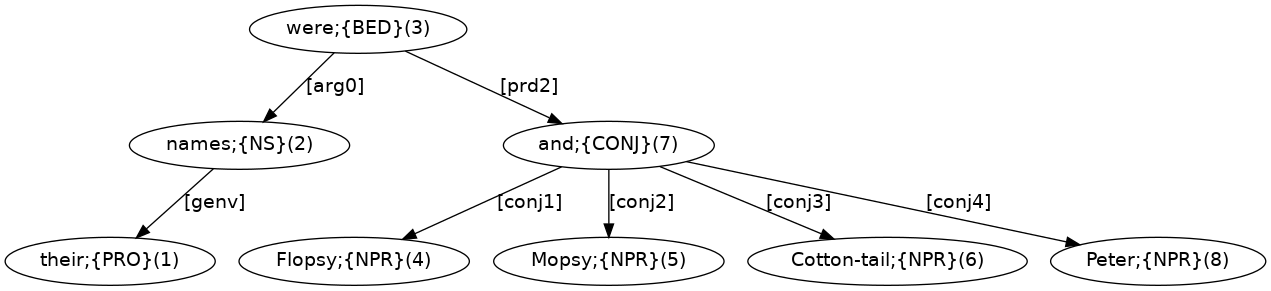
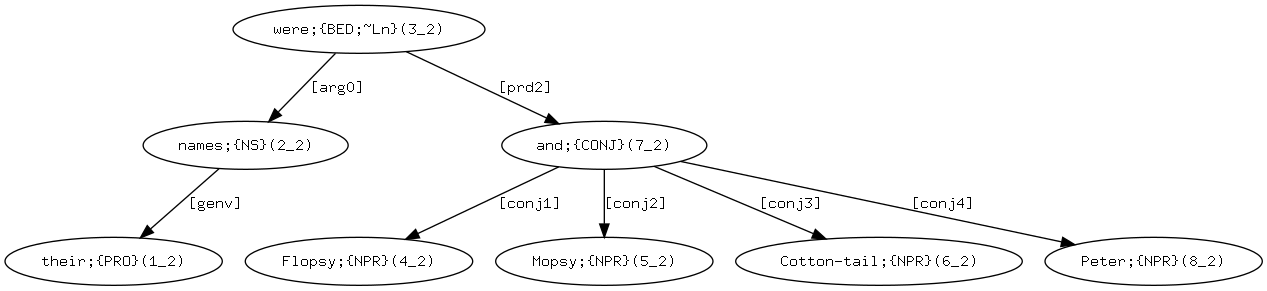
update

diff --git a/puzzle_graphs.html b/puzzle_graphs.html
@@ -42,7 +42,7 @@ body {
 
 <p align="justify">In a puzzle graph, word content for solution sentences is found outside of square brackets (&lsquo;<tt>[</tt>&rsquo;, &lsquo;<tt>]</tt>&rsquo;) and is always accompanied by (i) content between curly braces (&lsquo;<tt>&lcub;</tt>&rsquo;, &lsquo;<tt>&rcub;</tt>&rsquo;) to say the word class of the word, and (ii) numbering inside round brackets (&lsquo;<tt>(</tt>&rsquo;, &lsquo;<tt>)</tt>&rsquo;) to say the word position within the solution sentence(s).</p>
 
-<p align="justify">&nbsp;&nbsp;&nbsp;&nbsp;There is at least one number inside round brackets per word, but there may be a second number separated by an underscore character (&lsquo;<tt>&lowbar;</tt>&rsquo;). The second number (if present) says which solution sentence the word belongs to. The first number says the position of the word within its solution sentence. If there is no second number, then only one solution sentence is expected.</p>
+<p align="justify">&nbsp;&nbsp;&nbsp;&nbsp;Each word is accompanied by round brackets containing two numbers separated by an underscore character (&lsquo;<tt>&lowbar;</tt>&rsquo;). The second number says which solution sentence the word belongs to. The first number says the position of the word within its solution sentence.</p>
 
 <p align="justify">&nbsp;&nbsp;&nbsp;&nbsp;Square bracket content tells us about how words function, that is, what words <i>do</i> in their sentences. These are important clues that help to say where words should go to form solution sentences.</p>
 
@@ -78,7 +78,7 @@ body {
 
 <p align="justify">To form a solution sentence you can start by looking into a puzzle graph for an arrow that includes <tt>[arg0]</tt> in its label. The master node for such an arrow will be the main verb of a clause, possibly with other supporting words, while the dependent node will be the head word corresponding to the subject, that is, the &lsquo;do-er&rsquo; or &lsquo;be-er&rsquo; or &lsquo;have-er&rsquo; of the main verb.</p>
 
-<p align="justify">&nbsp;&nbsp;&nbsp;&nbsp;Consider figure <a href="#fig1">1</a>. This gives the puzzle graph for a single clause. By finding the arrow labelled <tt>[arg0]</tt>, we can identify <tt>were(6)</tt> as the main verb with supporting <tt>there(5)</tt>. We can also identify <tt>Rabbits(9)</tt> as the &lsquo;be-er&rsquo; (subject) of the main verb.</p>
+<p align="justify">&nbsp;&nbsp;&nbsp;&nbsp;Consider figure <a href="#fig1">1</a>. This gives the puzzle graph for a single clause. By finding the arrow labelled <tt>[arg0]</tt>, we can identify <tt>were(6_1)</tt> as the main verb with supporting <tt>there(5_1)</tt>. We can also identify <tt>Rabbits(9_1)</tt> as the &lsquo;be-er&rsquo; (subject) of the main verb.</p>
 
 <p><a name="fig1">Figure 1: Puzzle graph for a single clause</a></p>
 
@@ -90,13 +90,13 @@ body {
   <dt>(<a name="ex1">1</a>)</dt><dd>there were Rabbits</dd>
 </dl>
 
-<p align="justify">With (<a href="#ex1">1</a>), we already have a full sentence of English! However, (<a href="#ex1">1</a>) is not a complete solution sentence for figure <a href="#fig1">1</a>, since there are words that have yet to be used. Two of these words come at the ends of arrows that have <tt>Rabbits(9)</tt> as their master node. These words act to modify <tt>Rabbits(9)</tt>. Specifically, there is a numeral modifier to tell us about the number of rabbits (<tt>four(7)</tt>), and there is an attributive modifier to tell us about the size of the rabbits (<tt>little(8)</tt>). In English, a numeral modifier should precede an attributive adjective modifier to give (<a href="#ex2">2</a>).</p>
+<p align="justify">With (<a href="#ex1">1</a>), we already have a full sentence of English! However, (<a href="#ex1">1</a>) is not a complete solution sentence for figure <a href="#fig1">1</a>, since there are words that have yet to be used. Two of these words come at the ends of arrows that have <tt>Rabbits(9_1)</tt> as their master node. These words act to modify <tt>Rabbits(9_1)</tt>. Specifically, there is a numeral modifier to tell us about the number of rabbits (<tt>four(7_1)</tt>), and there is an attributive modifier to tell us about the size of the rabbits (<tt>little(8_1)</tt>). In English, a numeral modifier should preceed an attributive adjective modifier to give (<a href="#ex2">2</a>).</p>
 
 <dl>
   <dt>(<a name="ex2">2</a>)</dt><dd>there were four little Rabbits</dd>
 </dl>
 
-<p align="justify">&nbsp;&nbsp;&nbsp;&nbsp;Figure <a href="#fig1">1</a> also contains content for a temporal modifier with an arrow labelled <tt>[modifier][tmp]</tt> that has the main verb as its master node and that points to the adverb <tt>Once(1)</tt>. This adverb has itself a modifier labelled with the preposition word <tt>upon(2)</tt> and with <tt>time(4)</tt> as the dependent word. After connecting these words, we end up with the solution sentence of (<a href="#ex3">3</a>).</p>
+<p align="justify">&nbsp;&nbsp;&nbsp;&nbsp;Figure <a href="#fig1">1</a> also contains content for a temporal modifier with an arrow labelled <tt>[modifier][tmp]</tt> that has the main verb as its master node and that points to the adverb <tt>Once(1_1)</tt>. This adverb has itself a modifier labelled with the preposition word <tt>upon(2_1)</tt> and with <tt>time(4_1)</tt> as the dependent word. After connecting these words, we end up with the solution sentence of (<a href="#ex3">3</a>).</p>
 
 <dl>
   <dt>(<a name="ex3">3</a>)</dt><dd>Once upon a time there were four little Rabbits</dd>
@@ -105,7 +105,7 @@ body {
 <p align="justify">&nbsp;&nbsp;&nbsp;&nbsp;Note that (<a href="#ex3">3</a>) includes <i>a</i> as the third word, and yet this word is not part of figure <a href="#fig1">1</a>. This is an example of a &lsquo;special&rsquo; word that, as already noted in section <a href="#sec2">2</a>, we might sometimes need to add in addition to the words from the puzzle graph. We can gain confirmation that this extra word insertion is needed from observing that the resulting solution sentence now has words with positions that follow the word numbering of figure <a href="#fig1">1</a>, as (<a href="#ex4">4</a>) makes explicit.</p>
 
 <dl>
-  <dt>(<a name="ex4">4</a>)</dt><dd><tt>Once(1)</tt> <tt>upon(2)</tt> <u>a</u> <tt>time(4)</tt> <tt>there(5)</tt> <tt>were(6)</tt> <tt>four(7)</tt> <tt>little(8)</tt> <tt>Rabbits(9)</tt></dd>
+  <dt>(<a name="ex4">4</a>)</dt><dd><tt>Once(1_1)</tt> <tt>upon(2_1)</tt> <u>a</u> <tt>time(4_1)</tt> <tt>there(5_1)</tt> <tt>were(6_1)</tt> <tt>four(7_1)</tt> <tt>little(8_1)</tt> <tt>Rabbits(9_1)</tt></dd>
 </dl>
 
 <p align="justify">&nbsp;&nbsp;&nbsp;&nbsp;As another example, consider figure <a href="#fig2">2</a>, which also has content for a single clause sentence.</p>
@@ -114,13 +114,13 @@ body {
 
 <img src="puzzles2.png" alt="Puzzle graph for another single clause" height="230">
 
-<p align="justify">Searching for an <tt>[arg0]</tt> labelled arrow, we find that <i>were</i> is once again the main verb of the clause, now as <tt>were(3)</tt> and without <i>there</i>. With no <i>there</i>, a clause with <i>were</i> as the main verb will typically need the &lsquo;be-er&rsquo; (subject) to occur before <i>were</i>. The &lsquo;be-er&rsquo; is <tt>names(2)</tt>, which itself has an arrow labelled <tt>[genv]</tt> (genitive), which takes us to the genitive pronoun <tt>their(1)</tt>. By connecting these words, we arrive at (<a href="#ex5">5</a>).</p>
+<p align="justify">Searching for an <tt>[arg0]</tt> labelled arrow, we find that <i>were</i> is once again the main verb of the clause, now as <tt>were(3_2)</tt> and without <i>there</i>. With no <i>there</i>, a clause with <i>were</i> as the main verb will typically need the &lsquo;be-er&rsquo; (subject) to occur before <i>were</i>. The &lsquo;be-er&rsquo; is <tt>names(2_2)</tt>, which itself has an arrow labelled <tt>[genv]</tt> (genitive), which takes us to the genitive pronoun <tt>their(1_2)</tt>. By connecting these words, we arrive at (<a href="#ex5">5</a>).</p>
 
 <dl>
   <dt>(<a name="ex5">5</a>)</dt><dd>their names were</dd>
 </dl>
 
-<p align="justify">Unlike (<a href="#ex1">1</a>) and (<a href="#ex2">2</a>), (<a href="#ex5">5</a>) is not yet a full sentence of English. We still need to provide content for &lsquo;<i><b>what</b> their names were</i>&rsquo;. The content is found by following the arrow labelled <tt>[prd2]</tt> (subject predicative), which takes us to <tt>and(7)</tt>, which in turn takes us to four conjuncts. Each conjunct is linked with a <tt>[conjN]</tt> labelled arrow, where <tt>N</tt> is a conjunct's place in an ordering of all the conjuncts. Turning all of this into content for a sentence of English gets us to the solution sentence (<a href="#ex6">6</a>).</p>
+<p align="justify">Unlike (<a href="#ex1">1</a>) and (<a href="#ex2">2</a>), (<a href="#ex5">5</a>) is not yet a full sentence of English. We still need to provide content for &lsquo;<i><b>what</b> their names were</i>&rsquo;. The content is found by following the arrow labelled <tt>[prd2]</tt> (subject predicative), which takes us to <tt>and(7_2)</tt>, which in turn takes us to four conjuncts. Each conjunct is linked with a <tt>[conjN]</tt> labelled arrow, where <tt>N</tt> is a conjunct's place in an ordering of all the conjuncts. Turning all of this into content for a sentence of English gets us to the solution sentence (<a href="#ex6">6</a>).</p>
 
 <dl>
   <dt>(<a name="ex6">6</a>)</dt><dd>their names were Flopsy, Mopsy, Cotton-tail, and Peter</dd>
@@ -132,9 +132,9 @@ body {
 
 <img src="puzzles3.png" alt="Puzzle graph combining figures 1 and 2" height="380">
 
-<p align="justify">This third puzzle graph brings together content from the two previous puzzle graphs with connections of material at two different graph nodes. First, there is connection from the very top node of the graph with the word <tt>and(10)</tt>. Nodes corresponding to the main verb nodes of the two earlier graphs form the dependent nodes of arrows labelled <tt>[conjN]</tt>, much as we saw with the connections that led to <i>Flopsy, Mopsy, Cotton-tail, <b><i>and</i></b> Peter</i>. We can therefore expect to reach a solution sentence that is essentially the content of (<a href="#ex3">3</a>) connected by <i>and</i> to the content of (<a href="#ex6">6</a>).</p>
+<p align="justify">This third puzzle graph brings together content from the two previous puzzle graphs with connections of material at two different graph nodes. First, there is connection from the very top node of the graph with the word <tt>and(10_3)</tt>. Nodes corresponding to the main verb nodes of the two earlier graphs form the dependent nodes of arrows labelled <tt>[conjN]</tt>, much as we saw with the connections that led to <i>Flopsy, Mopsy, Cotton-tail, <b><i>and</i></b> Peter</i>. We can therefore expect to reach a solution sentence that is essentially the content of (<a href="#ex3">3</a>) connected by <i>and</i> to the content of (<a href="#ex6">6</a>).</p>
 
-<p align="justify">&nbsp;&nbsp;&nbsp;&nbsp;But there is one further point of connection that we also need to make sense of: The arrow <tt>[genv]</tt> of figure <a href="#fig3">3</a> does not have a node with content <i>their</i> as its dependent like in figure <a href="#fig2">2</a>, but rather takes as its dependent <tt>Rabbits(9)</tt>, which corresponds to the <tt>Rabbits(9)</tt> of figure <a href="#fig1">1</a>. We can interpret this <tt>[genv]</tt> arrow connection as having a &lsquo;special&rsquo; instance of <i>their</i> as the arrow's dependent. That is, the word <i>their</i> is absent from the puzzle graph because it's presence is captured as a direct arrow connection (referential link) to <tt>Rabbits(9)</tt>, which occurs in the puzzle graph for independent reasons. We are therefore justified to take &lsquo;(<a href="#ex3">3</a>) <i>and</i> (<a href="#ex6">6</a>)&rsquo; &mdash; namely (<a href="#ex7">7</a>) &mdash; to be the overall solution sentence for the puzzle graph of figure <a href="#fig3">3</a>.</p>
+<p align="justify">&nbsp;&nbsp;&nbsp;&nbsp;But there is one further point of connection that we also need to make sense of: The arrow <tt>[genv]</tt> of figure <a href="#fig3">3</a> does not have a node with content <i>their</i> as its dependent like in figure <a href="#fig2">2</a>, but rather takes as its dependent <tt>Rabbits(9_3)</tt>, which corresponds to the <tt>Rabbits(9_3)</tt> of figure <a href="#fig1">1</a>. We can interpret this <tt>[genv]</tt> arrow connection as having a &lsquo;special&rsquo; instance of <i>their</i> as the arrow's dependent. That is, the word <i>their</i> is absent from the puzzle graph because it's presence is captured as a direct arrow connection (referential link) to <tt>Rabbits(9_3)</tt>, which occurs in the puzzle graph for independent reasons. We are therefore justified to take &lsquo;(<a href="#ex3">3</a>) <i>and</i> (<a href="#ex6">6</a>)&rsquo; &mdash; namely (<a href="#ex7">7</a>) &mdash; to be the overall solution sentence for the puzzle graph of figure <a href="#fig3">3</a>.</p>
 
 <dl>
   <dt>(<a name="ex7">7</a>)</dt><dd>Once upon a time there were four little Rabbits, and their names were Flopsy, Mopsy, Cotton-tail, and Peter.</dd>
@@ -142,16 +142,16 @@ body {
 
 <h3><a name="sec3.2">3.2</a>&nbsp;&nbsp;&nbsp;An example with &lsquo;#&rsquo;</h3>
 
-<p align="justify">Figure <a href="#fig4">4</a> has a similar structure to figure <a href="#fig3">3</a>, in the sense that there are two verbs connected by <tt>[conj1]</tt> and <tt>[conj2]</tt> arrows from <tt>and(11)</tt> occuring topmost in the graph. However, while the verb of the first conjunct is overtly realised with <tt>lost(2)</tt>, the content for the verb of the second conjunct is shown as <tt>#(12)</tt> to indicate the licensed absence of a verb (a lost <i>lost</i>!) from the solution sentence. One further instance of &lsquo;#&rsquo; occurs in the graph (namely, <tt>#(4)</tt>) to indicate a nominal head absence that has <tt>[num]</tt> (numeral modifier) and &lsquo;<tt>of</tt>&rsquo; (role preposition) links.</p>
+<p align="justify">Figure <a href="#fig4">4</a> has a similar structure to figure <a href="#fig3">3</a>, in the sense that there are two verbs connected by <tt>[conj1]</tt> and <tt>[conj2]</tt> arrows from <tt>and(10_4)</tt> occuring topmost in the graph. However, while the verb of the first conjunct is overtly realised with <tt>lost(2_4)</tt>, the content for the verb of the second conjunct is shown as <tt>#(2_4)</tt> to indicate the licensed absence of a verb (a lost <i>lost</i>!) from the solution sentence. One further instance of &lsquo;#&rsquo; occurs in the graph (namely, <tt>#(1_4)</tt>) to indicate a nominal head absence that has <tt>[num]</tt> (numeral modifier) and &lsquo;<tt>of</tt>&rsquo; (role preposition) links.</p>
 
 <p><a name="fig4">Figure 4: Puzzle graph with &lsquo;#&rsquo;</a></p>
 
 <img src="puzzles4.png" alt="Puzzle graph content with elision" height="380">
 
-<p align="justify">Following all the links of figure <a href="#fig4">4</a> and including the &lsquo;#&rsquo; instances, we can arrive at solution sentence (<a href="#ex8">8</a>).</p>
+<p align="justify">Following all the links of figure <a href="#fig4">4</a>, we can arrive at solution sentence (<a href="#ex8">8</a>).</p>
 
 <dl>
-  <dt>(<a name="ex8">8</a>)</dt><dd>He lost one # of his shoes among the cabbages, and # the other shoe amongst the potatoes.</dd>
+  <dt>(<a name="ex8">8</a>)</dt><dd>He lost one of his shoes among the cabbages, and the other shoe amongst the potatoes.</dd>
 </dl>
 
 <h3><a name="sec3.3">3.3</a>&nbsp;&nbsp;&nbsp;A complex puzzle</h3>
@@ -164,7 +164,7 @@ body {
 
 <img src="puzzles5.png" alt="Puzzle graph for a single clause" height="220">
 
-<p align="justify">By finding <tt>[arg0]</tt>, we can identify <tt>was(3)</tt> as the main verb, and <tt>Mr.(1)_McGregor(2)</tt> as the &lsquo;be-er&rsquo; (subject). One other arrow extends from <tt>was(3)</tt> to <tt>and(7)</tt> and this is labelled with the preposition word <tt>on(4)</tt> and functional information <tt>[loc]</tt> (location). In turn, <tt>and(7)</tt> takes us to two conjuncts via the labelled connections <tt>[conj1]</tt> leading to <tt>hands(6)</tt> and <tt>[conj2]</tt> leading to <tt>knees(8)</tt>. One more connection, labelled <tt>[genv]</tt> (genitive&sol;possessive), originates from <tt>and(7)</tt> and leads to <tt>Mr.(1)_McGregor(2)</tt> to capture the information that <tt>hands(6)</tt> and <tt>knees(8)</tt> are those of <i>Mr.&nbsp;McGregor</i>. By following these connections and including <i>his</i> to capture the genitive&sol;possessive connection, we can reach (<a href="#ex9">9</a>) as the solution sentence.</p>
+<p align="justify">By finding <tt>[arg0]</tt>, we can identify <tt>was(3_5)</tt> as the main verb, and <tt>Mr.(1_5)_McGregor(2_5)</tt> as the &lsquo;be-er&rsquo; (subject). One other arrow extends from <tt>was(3_5)</tt> to <tt>and(7_5)</tt> and this is labelled with the preposition word <tt>on(4_5)</tt> and functional information <tt>[loc]</tt> (location). In turn, <tt>and(7_5)</tt> takes us to two conjuncts via the labelled connections <tt>[conj1]</tt> leading to <tt>hands(6_5)</tt> and <tt>[conj2]</tt> leading to <tt>knees(8_5)</tt>. One more connection, labelled <tt>[genv]</tt> (genitive&sol;possessive), originates from <tt>and(7_5)</tt> and leads to <tt>Mr.(1_5)_McGregor(2_5)</tt> to capture the information that <tt>hands(6_5)</tt> and <tt>knees(8_5)</tt> are those of <i>Mr.&nbsp;McGregor</i>. By following these connections and including <i>his</i> to capture the genitive&sol;possessive connection, we can reach (<a href="#ex9">9</a>) as the solution sentence.</p>
 
 <dl>
   <dt>(<a name="ex9">9</a>)</dt><dd>Mr.&nbsp;McGregor was on his hands and knees</dd>
@@ -176,7 +176,7 @@ body {
 
 <img src="puzzles6.png" alt="Puzzle graph for a clause with a participle" height="290">
 
-<p align="justify">By finding <tt>[arg0]</tt>, we can identify the phrasal verb <tt>planting(4)_out(5)</tt> as the main verb, and <tt>Mr.(1)_McGregor(2)</tt> as the &lsquo;do-er&rsquo; (subject). The <tt>[seq]</tt> (verb sequence) labelled arrow connecting <tt>was(3)</tt> to <tt>planting(4)_out(5)</tt> gives the verb sequence <i>was planting out</i>. A further arrow labelled <tt>[arg1]</tt> (object) extends from <tt>planting(4)_out(5)</tt> to <tt>cabbages(7)</tt> as the content of &lsquo;<b><i>what</i></b> <i>Mr.&nbsp;McGregor was planting out</i>&rsquo;. In turn, <tt>cabbages(7)</tt> leads via an <tt>[attribute]</tt> labelled arrow to <tt>young(6)</tt>. By following all these connections of words from the graph, we reach the solution sentence (<a href="#ex10">10</a>).</p>
+<p align="justify">By finding <tt>[arg0]</tt>, we can identify the verb <tt>planting(4_6)</tt> (with its directional modifier <tt>out(5_6)</tt>) as the main verb, and <tt>Mr.(1_6)_McGregor(2_6)</tt> as the &lsquo;do-er&rsquo; (subject). The <tt>[cat]</tt> (verb catenative) labelled arrow from <tt>was(3_6)</tt> to <tt>planting(4_6)</tt> gives the verb sequence <i>was planting out</i>. A further arrow labelled <tt>[arg1]</tt> (object) extends from <tt>planting(4_6)</tt> to <tt>cabbages(7_6)</tt> as the content of &lsquo;<b><i>what</i></b> <i>Mr.&nbsp;McGregor was planting out</i>&rsquo;. In turn, <tt>cabbages(7_6)</tt> leads via an <tt>[attribute]</tt> labelled arrow to <tt>young(6_6)</tt>. By following all these connections of words from the graph, we reach the solution sentence (<a href="#ex10">10</a>).</p>
 
 <dl>
   <dt>(<a name="ex10">10</a>)</dt><dd>Mr.&nbsp;McGregor was planting out young cabbages</dd>
@@ -188,7 +188,7 @@ body {
 
 <img src="puzzles7.png" alt="Puzzle graph combining figures 5 and 6" height="310">
 
-<p align="justify">Figure <a href="#fig7">7</a> results from combining figures <a href="#fig5">5</a> and <a href="#fig6">6</a>, with the exception that the <tt>[seq]</tt> (sequence verb) labelled connection of figure <a href="#fig6">6</a> is replaced by a <tt>[cnt]</tt> (continuative) labelled connection. As a consequence of this change, <i>planting out</i> can no longer be the main verb of the main clause of a solution sentence, but instead will need to form the main verb of a subordinate participle clause that adds to the information about the &lsquo;be-er&rsquo; (subject) of the main clause. A solution sentence that meets this criteria is (<a href="#ex11">11</a>).</p>
+<p align="justify">Figure <a href="#fig7">7</a> results from combining figures <a href="#fig5">5</a> and <a href="#fig6">6</a>, with the exception that the <tt>[cat]</tt> (catenative verb) labelled connection of figure <a href="#fig6">6</a> is replaced by a <tt>[scon][cnt](#1_7)</tt> (continuative subordinate conjunction) labelled connection. As a consequence of this change, <i>planting</i> can no longer be the main verb of the main clause of a solution sentence, but instead will need to form the main verb of a subordinate participle clause that adds to the information about the &lsquo;be-er&rsquo; (subject) of the main clause. A solution sentence that meets this criteria is (<a href="#ex11">11</a>).</p>
 
 <dl>
   <dt>(<a name="ex11">11</a>)</dt><dd>Mr.&nbsp;McGregor was on his hands and knees planting out young cabbages</dd>
@@ -200,7 +200,7 @@ body {
 
 <img src="puzzles8.png" alt="Puzzle graph for a single clause" height="140">
 
-<p align="justify">Looking at <tt>jumped(2)</tt>, this is linked to <tt>he(1)</tt> with an <tt>[arg0]</tt> arrow, and to <tt>up(3)</tt> with a <tt>[modifier][dir]</tt> (directional modifier) arrow. Therefore, we can identify <i>jumped</i> as the main verb, <i>he</i> as the &lsquo;do-er&rsquo; (subject), and <i>up</i> as an adverbial modifier, to derive the simple sentence of (<a href="#ex12">12</a>).</p>
+<p align="justify">Looking at <tt>jumped(2_8)</tt>, this is linked to <tt>he(1_8)</tt> with an <tt>[arg0]</tt> arrow, and to <tt>up(3_8)</tt> with a <tt>[modifier][dir]</tt> (directional modifier) arrow. Therefore, we can identify <i>jumped</i> as the main verb, <i>he</i> as the &lsquo;do-er&rsquo; (subject), and <i>up</i> as an adverbial modifier, to derive the simple sentence of (<a href="#ex12">12</a>).</p>
 
 <dl>
   <dt>(<a name="ex12">12</a>)</dt><dd>he jumped up</dd>
@@ -212,7 +212,7 @@ body {
 
 <img src="puzzles9.png" alt="Puzzle graph for another single clause" height="140">
 
-<p align="justify">Looking at <tt>ran(2)</tt>, this is linked to <tt>he(1)</tt> with an <tt>[arg0]</tt> arrow. Also, <tt>ran(2)</tt> is linked to <tt>Peter(4)</tt> with an arrow that contains the preposition word <tt>after(3)</tt> and the function information <tt>[dir]</tt> (direction). With these words and connections, we can derive the solution sentence (<a href="#ex13">13</a>).</p>
+<p align="justify">Looking at <tt>ran(2_9)</tt>, this is linked to <tt>he(1_9)</tt> with an <tt>[arg0]</tt> arrow. Also, <tt>ran(2_9)</tt> is linked to <tt>Peter(4_9)</tt> with an arrow that contains the preposition word <tt>after(3_9)</tt> and the function information <tt>[dir]</tt> (direction). With these words and connections, we can derive the solution sentence (<a href="#ex13">13</a>).</p>
 
 <dl>
   <dt>(<a name="ex13">13</a>)</dt><dd>he ran after Peter</dd>
@@ -224,7 +224,7 @@ body {
 
 <img src="puzzles10.png" alt="Puzzle graph combining figures 8 and 9" height="220">
 
-<p align="justify">This combines figures <a href="#fig8">8</a> and <a href="#fig9">9</a>, with <tt>and(4)</tt> to connect <tt>jumped(2)</tt> and <tt>ran(5)</tt>. Note how the single <tt>he(1)</tt> connects as the &lsquo;do-er&rsquo; (subject) to both verbs. A solution sentence is (<a href="#ex14">14</a>).</p>
+<p align="justify">This combines figures <a href="#fig8">8</a> and <a href="#fig9">9</a>, with <tt>and(4_10)</tt> to connect <tt>jumped(2_10)</tt> and <tt>ran(5_10)</tt>. Note how the single <tt>he(1_10)</tt> connects as the &lsquo;do-er&rsquo; (subject) to both verbs. A solution sentence is (<a href="#ex14">14</a>).</p>
 
 <dl>
   <dt>(<a name="ex14">14</a>)</dt><dd>he jumped up and ran after Peter</dd>
@@ -236,7 +236,7 @@ body {
 
 <img src="puzzles11.png" alt="Puzzle graph for a clause with a participle" height="220">
 
-<p align="justify">We can see <tt>waving(3)</tt> is connected to <tt>he(1)</tt> by an <tt>[arg0]</tt> &lsquo;do-er&rsquo; (subject) arrow, and to <tt>rake(5)</tt> with an <tt>[arg1]</tt> &lsquo;done to&rsquo; (object) arrow. Also an arrow labelled <tt>[seq]</tt> (verb sequence; also seen above with figure <a href="#fig6">6</a>) connects <tt>was(2)</tt> to <tt>waving(3)</tt>. A solution sentence is (<a href="#ex15">15</a>).</p>
+<p align="justify">We can see <tt>waving(3_11)</tt> is connected to <tt>he(1_11)</tt> by an <tt>[arg0]</tt> &lsquo;do-er&rsquo; (subject) arrow, and to <tt>rake(5_11)</tt> with an <tt>[arg1]</tt> &lsquo;done to&rsquo; (object) arrow. Also an arrow labelled <tt>[cat]</tt> (verb catenative; also seen above with figure <a href="#fig6">6</a>) connects <tt>was(2_11)</tt> to <tt>waving(3_11)</tt>. A solution sentence is (<a href="#ex15">15</a>).</p>
 
 <dl>
   <dt>(<a name="ex15">15</a>)</dt><dd>he was waving a rake</dd>
@@ -248,7 +248,7 @@ body {
 
 <img src="puzzles12.png" alt="Puzzle graph for an imperative clause" height="140">
 
-<p align="justify">The <tt>[clausetype]</tt> arrow that extends from <tt>Stop(1)</tt> tells us that <i>Stop</i> is the verb of the clause. This connects to <tt>[imp]</tt> to tell us that the clause is an imperative. Typically, an imperative is an order or instruction for an unmentioned &lsquo;do-er&rsquo; to do something, but also the &lsquo;do-er&rsquo; can be addressed with a <tt>[voc]</tt> (vocative) connection. A vocative &mdash; figure <a href="#fig12">12</a> has <tt>thief(2)</tt> &mdash; can occur either at the front or end of an imperative, making (<a href="#ex16">16</a>) a possible solution sentence.</p>
+<p align="justify">The <tt>[clausetype]</tt> arrow that extends from <tt>Stop(1_12)</tt> tells us that <i>Stop</i> is the verb of the clause. This connects to <tt>[imp]</tt> to tell us that the clause is an imperative. Typically, an imperative is an order or instruction for an unmentioned &lsquo;do-er&rsquo; to do something, but also the &lsquo;do-er&rsquo; can be addressed with a <tt>[voc]</tt> (vocative) connection. A vocative &mdash; figure <a href="#fig12">12</a> has <tt>thief(2_12)</tt> &mdash; can occur either at the front or end of an imperative, making (<a href="#ex16">16</a>) a possible solution sentence.</p>
 
 <dl>
   <dt>(<a name="ex16">16</a>)</dt><dd>Stop thief!</dd>
@@ -260,7 +260,7 @@ body {
 
 <img src="puzzles13.png" alt="Puzzle graph for a clause with an embedding with the content of figure 12" height="320">
 
-<p align="justify">This is the puzzle graph for a clause with an embedding with the content of figure <a href="#fig12">12</a>. This embedding is connected by an <tt>[arg1]</tt> (object) arrow to the phrasal verb <tt>calling(3)_out(4)</tt>, and so provides the content of &lsquo;<b><i>what</i></b> <i>was called out</i>&rsquo;. Also, <tt>calling(3)_out(4)</tt> links to <tt>he(1)</tt> with an <tt>[arg0]</tt> &lsquo;do-er&rsquo; (subject) arrow, so this will need to be the main verb of the overall sentence. Also an arrow labelled <tt>[seq]</tt> connects <tt>was(2)</tt> to <tt>calling(3)_out(4)</tt>. A solution sentence is (<a href="#ex17">17</a>).</p>
+<p align="justify">This is the puzzle graph for a clause with an embedding with the content of figure <a href="#fig12">12</a>. This embedding is connected by an <tt>[arg1]</tt> (object) arrow to the verb <tt>calling(3_13)</tt> (with directional modifier <tt>out(4_13)</tt>), and so provides the content of &lsquo;<b><i>what</i></b> <i>was called out</i>&rsquo;. Also, <tt>calling(3_13)</tt> links to <tt>he(1_13)</tt> with an <tt>[arg0]</tt> &lsquo;do-er&rsquo; (subject) arrow, so this will need to be the main verb of the overall sentence. Also an arrow labelled <tt>[cat]</tt> connects <tt>was(2_13)</tt> to <tt>calling(3_13)</tt>. A solution sentence is (<a href="#ex17">17</a>).</p>
 
 <dl>
   <dt>(<a name="ex17">17</a>)</dt><dd>he was calling out, &lsquo;Stop thief!&rsquo;</dd>
@@ -272,7 +272,7 @@ body {
 
 <img src="puzzles14.png" alt="Puzzle graph combining figures 11 and 13" height="400">
 
-<p align="justify">Figure <a href="#fig14">14</a> results from combining figure <a href="#fig11">11</a> and <a href="#fig13">13</a>. Here, <tt>and(6)</tt> has conjuncts <tt>waving(3)</tt> and <tt>calling(7) out(8)</tt>, both of which are participle verbs. In turn, an arrow labelled <tt>[seq]</tt> connects <tt>was(2)</tt> to <tt>and(6)</tt> and it is this connection that creates the verb sequencing that supports the participle forms of the two conjoined verbs. A solution sentence is (<a href="#ex18">18</a>).</p>
+<p align="justify">Figure <a href="#fig14">14</a> results from combining figure <a href="#fig11">11</a> and <a href="#fig13">13</a>. Here, <tt>and(6_14)</tt> has conjuncts <tt>waving(3_14)</tt> and <tt>calling(7_14)</tt>, both of which are participle verbs. In turn, an arrow labelled <tt>[cat]</tt> connects <tt>was(2_14)</tt> to <tt>and(6_14)</tt> and it is this connection that creates the verb sequencing that supports the participle forms of the two conjoined verbs. A solution sentence is (<a href="#ex18">18</a>).</p>
 
 <dl>
   <dt>(<a name="ex18">18</a>)</dt><dd>he was waving a rake and calling out, &lsquo;Stop thief!&rsquo;</dd>
@@ -284,7 +284,7 @@ body {
 
 <img src="puzzles15.png" alt="Puzzle graph combining figures 10 and 14" height="480">
 
-<p align="justify">Figure <a href="#fig15">15</a> results from combining figures <a href="#fig10">10</a> and <a href="#fig14">14</a>, with the exception that the <tt>[seq]</tt> (sequence verb) labelled connection of figure <a href="#fig14">14</a> is replaced by a <tt>[cnt]</tt> (continuative) labelled connection, much like we saw happen with figure <a href="#fig7">7</a>. As a consequence of this change, <i>waving</i> and <i>calling out</i> can no longer be the conjoined main verbs of the main clause of a solution sentence, but instead will need to form the conjoined main verbs of a subordinate participle clause that adds to the information about the &lsquo;do-er&rsquo; (subject) of the main clause. Note how the verbs <tt>jumped(2)</tt>, <tt>ran(5)</tt>, <tt>waving(8)</tt>, and <tt>calling(12)_out(13)</tt> all have <tt>[arg0]</tt> &lsquo;do-er&rsquo; (subject) arrows that connect to the same <tt>he(1)</tt>. A solution sentence is (<a href="#ex19">19</a>).</p>
+<p align="justify">Figure <a href="#fig15">15</a> results from combining figures <a href="#fig10">10</a> and <a href="#fig14">14</a>, with the exception that the <tt>[cat]</tt> (sequence verb) labelled connection of figure <a href="#fig14">14</a> is replaced by a <tt>[scon][cnt](#1_15)</tt> (continuative subordinate conjunction) labelled coordination connection, much like we saw happen with figure <a href="#fig7">7</a>. As a consequence of this change, <i>waving</i> and <i>calling</i> can no longer be the conjoined main verbs of the main clause of a solution sentence, but instead will need to form the conjoined main verbs of a subordinate participle clause that adds to the information about the &lsquo;do-er&rsquo; (subject) of the main clause. Note how the verbs <tt>jumped(2_15)</tt>, <tt>ran(5_15)</tt>, <tt>waving(8_15)</tt>, and <tt>calling(12_15)</tt> all have <tt>[arg0]</tt> &lsquo;do-er&rsquo; (subject) arrows that connect to the same <tt>he(1_15)</tt>. A solution sentence is (<a href="#ex19">19</a>).</p>
 
 <dl>
   <dt>(<a name="ex19">19</a>)</dt><dd>he jumped up and ran after Peter, waving a rake and calling out, &lsquo;Stop thief!&rsquo;</dd>
@@ -296,7 +296,7 @@ body {
 
 <img src="puzzles16.png" alt="Puzzle graph combining figures 7 and 15" height="600">
 
-<p align="justify">This combines figures <a href="#fig7">7</a> and <a href="#fig15">15</a>, with <tt>but(13)</tt> connecting to <tt>was(3)</tt> (corresponding to <tt>was(3)</tt> of figure <a href="#fig7">7</a>) and <tt>and(17)</tt> (corresponding to <tt>and(4)</tt> of figure <a href="#fig15">15</a>). Note how the verbs <tt>was(3)</tt>, <tt>planting(9)_out(10)</tt>, <tt>jumped(15)</tt>, <tt>ran(18)</tt>, <tt>waving(21)</tt>, and <tt>calling(25)_out(26)</tt> all have <tt>[arg0]</tt> &lsquo;be-er&sol;do-er&rsquo; (subject) arrows that connect to the same instance of <tt>Mr.(1)_McGregor(2)</tt>. An overall solution sentence for figure <a href="#fig16">16</a> is (<a href="#ex20">20</a>).</p>
+<p align="justify">This combines figures <a href="#fig7">7</a> and <a href="#fig15">15</a>, with <tt>but(13_16)</tt> connecting to <tt>[scon][cnt]#1_16)</tt> (corresponding to <tt>[scon][cnt]#1_7</tt> of figure <a href="#fig7">7</a>) and <tt>and(17_16)</tt> (corresponding to <tt>and(4_15)</tt> of figure <a href="#fig15">15</a>). Note how the verbs <tt>was(3_16)</tt>, <tt>planting(9_16)</tt>, <tt>jumped(15_16)</tt>, <tt>ran(18_16)</tt>, <tt>waving(21_16)</tt>, and <tt>calling(25_16)</tt> all have <tt>[arg0]</tt> &lsquo;be-er&sol;do-er&rsquo; (subject) arrows that connect to the same instance of <tt>Mr.(1_16)_McGregor(2_16)</tt>. An overall solution sentence for figure <a href="#fig16">16</a> is (<a href="#ex20">20</a>).</p>
 
 <dl>
   <dt>(<a name="ex20">20</a>)</dt><dd>Mr.&nbsp;McGregor was on his hands and knees planting out young cabbages, but he jumped up and ran after Peter, waving a rake and calling out, &lsquo;Stop thief!&rsquo;</dd>
